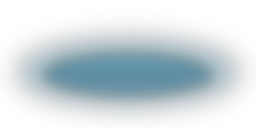
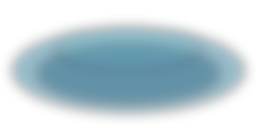
얼음 그림자 최종 설정 적용

diff --git a/game.js b/game.js
@@ -63,7 +63,7 @@
   const iceBlockShadowImage = new Image();
   let iceBlockShadowImageReady = false;
   iceBlockShadowImage.decoding = "async";
-  iceBlockShadowImage.src = "./assets/ice-block-shadow.png?v=20260814-brighter-overlap";
+  iceBlockShadowImage.src = "./assets/ice-block-shadow.png?v=20260814-blur6-size44x23";
   iceBlockShadowImage.addEventListener("load", () => { iceBlockShadowImageReady = true; });
 
   const fireWoodImage = new Image();
@@ -1249,7 +1249,7 @@
       ctx.save();
       ctx.globalAlpha *= .82;
       ctx.imageSmoothingEnabled = true;
-      ctx.drawImage(iceBlockShadowImage, -25, -24, 50, 25);
+      ctx.drawImage(iceBlockShadowImage, -22, -20, 44, 23);
       ctx.restore();
     }
     const visualStage = Math.max(

diff --git a/index.html b/index.html
@@ -73,6 +73,6 @@
         </div>
       </section>
     </main>
-    <script src="./game.js?v=20260814-shadow-overlap-plus11"></script>
+    <script src="./game.js?v=20260814-shadow-final-44x23"></script>
   </body>
 </html>
